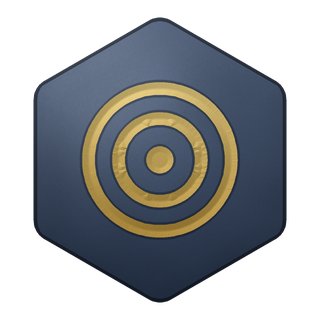
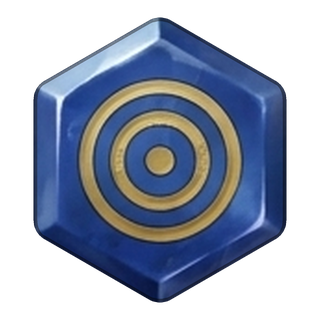
The relic stones painted: one Gemini sheet from the renders, fitted into the hexagon
tools/relic_paint.py puts the sixteen rendered stones on black as one
reference, has Gemini repaint the sheet as one image, keys each stone
off the ground, scales it to cover the renderer's hexagon and clips it
to it, and ships relic_<set>.png under the same names; Ichor and
Titanfall were re-rolled alone from their own renders. Three images.
The rim template still fits and no Swift changed. relic_art.py --ship
leaves the paintings in place unless --ship-stones.

Claude-Session: https://claude.ai/code/session_01UWm8wBqgkvhU3PN6wHTkXq

diff --git a/tools/relic_paint.py b/tools/relic_paint.py
@@ -1,0 +1,212 @@
+#!/usr/bin/env python3
+"""Paint the sixteen relic stones with Gemini, from the rendered stones as
+the reference, and fit the paintings into the app's own hexagon.
+
+    python3 tools/relic_paint.py --reference out/ref.png          # the 4×4 sheet of rendered stones on black
+    python3 tools/relic_paint.py --paint out/ref.png out/paint.png # ONE Gemini image (about 14 cents)
+    python3 tools/relic_paint.py --split out/paint.png --sheet out/judge.jpg   # key, cut, fit, judge
+    python3 tools/relic_paint.py --split out/paint.png --ship                  # write relic_<set>.png
+    python3 tools/relic_paint.py --single fury --reference out/fury_ref.png    # one stone's reference, for a re-roll
+    python3 tools/relic_paint.py --single fury --split out/fury_paint.png --ship
+
+Why a sheet and not sixteen singles: one painting of sixteen stones is one
+style by construction, and one image is a seventh of the price of sixteen;
+a cell that came out wrong is re-rolled alone from its own render. Why the
+rendered stones as the reference: the seals are ours (the aspis, the Doric
+column, the torch) and a reference holds the painter to them, where a
+description would not. Why black: the stones are keyed off the ground by
+darkness, flood-filled from the border so a dark carve inside a stone
+survives; the sprites learned the same on 2026-09-10.
+
+The painting supplies the surface — the mineral, the gloss, the carved
+gold — and the code supplies the cut: every painted stone is scaled to
+cover the renderer's hexagon (`relic_art.stone_path`) and clipped to it,
+so the rim template the app tints still fits and no Swift changes. The
+emblems stay the line seals; they are chips at twelve points.
+
+Gemini's key is `GEMINI_API_KEY` in the environment; this tool never
+prints or writes it. It calls the painter only under `--paint`, once per
+call, and only when the owner has said so for this batch (2026-09-14: "Do
+the painted relics. I want those to look better.").
+"""
+import argparse
+import subprocess
+import sys
+from pathlib import Path
+
+import numpy as np
+from PIL import Image
+from scipy import ndimage
+
+sys.path.insert(0, str(Path(__file__).resolve().parent))
+import relic_art  # noqa: E402
+
+ROOT = Path(__file__).resolve().parent.parent
+OUT = ROOT / "Pantheon" / "Resources" / "Portraits"
+
+GRID = 4
+CANVAS = 2048
+CELL = 480
+MARGIN = (CANVAS - GRID * CELL) // 2    # 64
+STONE = 360                             # the rendered stone's size in a cell
+SINGLE_CANVAS = 1024
+
+PROMPT = (
+    "Repaint this reference sheet as premium hand-painted fantasy game icons: "
+    "{count} relic stones, each a polished faceted gemstone slab cut as the SAME "
+    "pointy-top hexagon with a bevelled edge that catches a soft light from the "
+    "upper left, rich saturated mineral colour with subtle veining and a glossy "
+    "highlight, and its symbol ENGRAVED into the face as fine chiselled gold "
+    "linework with an inner shadow. Keep every stone in exactly the same position, "
+    "size, orientation, colour family and symbol as in the reference, {layout}, on "
+    "a pure black background. Painterly AAA mobile RPG icon style, crisp and "
+    "readable at small size. No glow, no drop shadow, no reflection on the ground, "
+    "nothing between or around the stones"
+)
+
+
+def names(single):
+    return [single] if single else [s[0] for s in relic_art.SETS]
+
+
+def render(name):
+    entry = next(s for s in relic_art.SETS if s[0] == name)
+    return relic_art.render_stone(*entry)
+
+
+def cells(single):
+    """(name, x, y, size) per cell on the canvas."""
+    if single:
+        size = int(SINGLE_CANVAS * 0.72)
+        return [(single, (SINGLE_CANVAS - size) // 2, (SINGLE_CANVAS - size) // 2, size)]
+    out = []
+    for index, name in enumerate(names(None)):
+        row, col = divmod(index, GRID)
+        x = MARGIN + col * CELL + (CELL - STONE) // 2
+        y = MARGIN + row * CELL + (CELL - STONE) // 2
+        out.append((name, x, y, STONE))
+    return out
+
+
+def reference(path, single=None):
+    canvas = SINGLE_CANVAS if single else CANVAS
+    img = Image.new("RGB", (canvas, canvas), (0, 0, 0))
+    for name, x, y, size in cells(single):
+        stone = render(name).resize((size, size), Image.LANCZOS)
+        img.paste(stone, (x, y), stone)
+    img.save(path)
+    print("wrote", path)
+
+
+def paint(reference_path, out_path, single=None):
+    count = "one" if single else "sixteen"
+    layout = "centred" if single else "four rows of four, evenly spaced"
+    canvas = SINGLE_CANVAS if single else CANVAS
+    cmd = [sys.executable, str(ROOT / "tools" / "genart.py"),
+           "--prompt", PROMPT.format(count=count, layout=layout),
+           "--ref", str(reference_path), "--out", str(out_path),
+           "--size", f"{canvas}x{canvas}", "--raw", str(Path(out_path).with_suffix(".raw.png"))]
+    subprocess.run(cmd, check=True)
+
+
+def key(cell_rgb):
+    """The stone in a cell: everything not black, flood-filled from the
+    border so a dark carve inside the stone is kept. A bool mask."""
+    a = cell_rgb.astype(np.float32)
+    dark = a.max(-1) < 30
+    lab, _ = ndimage.label(dark)
+    border = set(np.unique(np.concatenate([lab[0], lab[-1], lab[:, 0], lab[:, -1]])))
+    border.discard(0)
+    ground = np.isin(lab, list(border))
+    stone = ~ground
+    # The largest piece, so a stray speck of paint is not the stone.
+    lab, n = ndimage.label(stone)
+    if n == 0:
+        return stone
+    sizes = ndimage.sum(stone, lab, range(1, n + 1))
+    return lab == (1 + int(np.argmax(sizes)))
+
+
+def fit(cell_rgb, mask):
+    """Scale the painted stone to cover the renderer's hexagon and clip it
+    to that hexagon, returning a SIZE×SIZE RGBA image."""
+    S4 = relic_art.S4
+    M = relic_art.mask_of(relic_art.stone_path())
+    mys, mxs = np.nonzero(M)
+    tw, th = mxs.max() - mxs.min() + 1, mys.max() - mys.min() + 1
+    tcx, tcy = (mxs.min() + mxs.max()) / 2, (mys.min() + mys.max()) / 2
+    ys, xs = np.nonzero(mask)
+    pw, ph = xs.max() - xs.min() + 1, ys.max() - ys.min() + 1
+    scale = 1.03 * max(tw / pw, th / ph)
+    # Colour where the painted alpha is zero would bleed black into the
+    # clip; fill every outside pixel with its nearest stone pixel first.
+    idx = ndimage.distance_transform_edt(~mask, return_distances=False, return_indices=True)
+    filled = cell_rgb[idx[0], idx[1]]
+    rgba = np.zeros(cell_rgb.shape[:2] + (4,), np.uint8)
+    rgba[..., :3] = filled
+    rgba[..., 3] = mask.astype(np.uint8) * 255
+    img = Image.fromarray(rgba, "RGBA")
+    new_w, new_h = int(round(img.width * scale)), int(round(img.height * scale))
+    img = img.resize((new_w, new_h), Image.LANCZOS)
+    # Centre the painted stone's box on the hexagon's box.
+    pcx, pcy = (xs.min() + xs.max()) / 2 * scale, (ys.min() + ys.max()) / 2 * scale
+    canvas = Image.new("RGBA", (S4, S4), (0, 0, 0, 0))
+    canvas.paste(img, (int(round(tcx - pcx)), int(round(tcy - pcy))), img)
+    arr = np.array(canvas).astype(np.float32)
+    # The cut: the renderer's hexagon, with its darker line along the edge
+    # so the silhouette holds on cream under a Normal rim.
+    edge = M & ~ndimage.binary_erosion(M, iterations=int(0.012 * S4))
+    col = arr[..., :3] / 255.0
+    col = np.where(edge[..., None], col * 0.6, col)
+    out = np.zeros((S4, S4, 4), np.float32)
+    out[..., :3] = col
+    out[..., 3] = M.astype(np.float32)
+    return Image.fromarray((out * 255).astype(np.uint8), "RGBA").resize((relic_art.SIZE, relic_art.SIZE), Image.LANCZOS)
+
+
+def split(painted_path, single=None):
+    """The painted sheet cut into stones, keyed and fitted: {name: image}."""
+    img = np.array(Image.open(painted_path).convert("RGB"))
+    stones = {}
+    for name, x, y, size in cells(single):
+        pad = size // 6 if not single else 0
+        x0, y0 = max(0, x - pad), max(0, y - pad)
+        x1, y1 = min(img.shape[1], x + size + pad), min(img.shape[0], y + size + pad)
+        cell = img[y0:y1, x0:x1]
+        mask = key(cell)
+        coverage = mask.mean()
+        if coverage < 0.15 or coverage > 0.95:
+            print(f"  {name}: suspicious coverage {coverage:.2f}")
+        stones[name] = fit(cell, mask)
+        print(f"  cut {name}  ({coverage:.0%} of its cell)")
+    return stones
+
+
+def main():
+    ap = argparse.ArgumentParser()
+    ap.add_argument("--single", help="one set name: a 1×1 reference / painting instead of the sheet")
+    ap.add_argument("--reference", metavar="PNG", help="write the reference sheet here")
+    ap.add_argument("--paint", nargs=2, metavar=("REF", "OUT"), help="call Gemini once with REF, write OUT")
+    ap.add_argument("--split", metavar="PAINTED", help="key, cut and fit a painted sheet")
+    ap.add_argument("--sheet", metavar="JPG", help="with --split: the judging sheet at the app's sizes")
+    ap.add_argument("--ship", action="store_true", help="with --split: write relic_<set>.png into the bundle")
+    args = ap.parse_args()
+
+    if args.reference:
+        reference(args.reference, args.single)
+    if args.paint:
+        paint(args.paint[0], args.paint[1], args.single)
+    if args.split:
+        stones = split(args.split, args.single)
+        if args.sheet:
+            rim = relic_art.render_rim()
+            print("wrote", relic_art.sheet(args.sheet, stones, rim))
+        if args.ship:
+            OUT.mkdir(parents=True, exist_ok=True)
+            for name, img in stones.items():
+                img.save(OUT / f"relic_{name}.png", optimize=True)
+            print(f"shipped {len(stones)} painted stones")
+
+
+if __name__ == "__main__":
+    main()

diff --git a/tools/relic_art.py b/tools/relic_art.py
@@ -20,11 +20,13 @@ round, so its top-left edge is in shadow — in gold, or in dark bronze on a
 light stone.
 
     python3 tools/relic_art.py --sheet /tmp/relics/sheet.jpg    # judge first
-    python3 tools/relic_art.py --ship                            # write the bundle files
+    python3 tools/relic_art.py --ship                            # the rim and the emblems
+    python3 tools/relic_art.py --ship --ship-stones              # the rendered stones too
 
-Gemini is paused (CLAUDE.md), so these are drawn here rather than painted;
-a painted set dropped in under the same names replaces them with no code
-change.
+The stones in the bundle are PAINTED (2026-09-14, `tools/relic_paint.py`:
+Gemini from these renders as the reference, fitted into this hexagon); the
+renders here are the reference and the fallback, and `--ship` alone leaves
+the paintings in place.
 """
 import argparse
 import math
@@ -581,6 +583,10 @@ def main():
     ap.add_argument("--ship", action="store_true", help="write the bundle files")
     ap.add_argument("--only", help="set names, comma-separated, for a quick look")
     ap.add_argument("--emblems", help="write a sheet of the sixteen emblems alone")
+    ap.add_argument("--ship-stones", action="store_true",
+                    help="with --ship: overwrite the stones too. They are PAINTED since 2026-09-14 "
+                         "(tools/relic_paint.py); the renders are the fallback, so --ship alone "
+                         "writes the rim and the emblems only")
     args = ap.parse_args()
 
     sets = [s for s in SETS if not args.only or s[0] in args.only.split(",")]
@@ -609,8 +615,11 @@ def main():
             f.unlink()
         if stale:
             print(f"removed {len(stale)} per-slot files")
-        for name, img in stones.items():
-            img.save(OUT / f"relic_{name}.png", optimize=True)
+        if args.ship_stones:
+            for name, img in stones.items():
+                img.save(OUT / f"relic_{name}.png", optimize=True)
+        else:
+            print("stones left as painted (tools/relic_paint.py); --ship-stones overwrites them with the renders")
         rim.save(OUT / "relic_rim.png", optimize=True)
         for name, colour, emblem in SETS:
             render_emblem(emblem).save(OUT / f"relic_emblem_{name}.png", optimize=True)

diff --git a/Docs/PLAN.md b/Docs/PLAN.md
@@ -1888,3 +1888,59 @@ the sets are shown on the map and chosen by myth rather than hidden and
 arbitrary; the three-star track is Raid's shape and the road chests are
 AFK's, and together with the names, the seals and the chest they map one
 to one onto none of them.
+
+## The stones painted (2026-09-14)
+
+The owner: "Do the painted relics. I want those to look better." His word
+for this batch; the cap stays ten dollars a month and the quote was
+$2.30 to $5.
+
+### What the genre's icons are
+
+Summoners War's runes are painted gems: a saturated mineral with a gloss,
+the set's symbol on the face, read at forty points in a grid of hundreds.
+Epic Seven's gear is painted per piece with the set's icon over it; Raid's
+artifacts likewise. None of them is a line drawing; all of them are one
+painter's hand across the whole set, which is what makes a grid of them
+read as a system rather than a pile.
+
+### Three ways to paint sixteen stones
+
+1. **Sixteen singles, each from its own rendered stone as the reference.**
+   About $2.30. The seal is held to ours by the reference. The risk is
+   sixteen slightly different hands.
+2. **One sheet: the sixteen rendered stones on black as ONE reference,
+   repainted as one image.** About 14 cents an attempt. One hand by
+   construction; the painter keeps the positions, colours and seals of the
+   reference. The risk is a cell that mutates, which is fixed by option 1
+   for that cell alone.
+3. **Meshy's text-to-image.** The same models for credits, at a price per
+   image nobody has read yet, against a floor of 2,000 with 133 to spare.
+   Not for a batch.
+
+Chosen: the sheet, singles for the outliers. Black ground, keyed by
+darkness and flood-filled from the border (a dark carve inside a stone
+survives; the sprites of 2026-09-10 learned the same). The painting
+supplies the surface and the code the cut: `tools/relic_paint.py` scales
+each painted stone to cover the renderer's hexagon and clips it to that
+hexagon, adds the renderer's edge line, and ships it under the same
+`relic_<set>.png` name, so the tinted rim still fits and nothing in Swift
+changes; the emblems stay the line seals, which are chips at twelve
+points. Judged on the same sheet as the rendered stones, at the app's
+four sizes, before shipping.
+
+### What shipped (2026-09-14)
+
+Three images, 42 cents. The sheet came back as one hand: sixteen faceted
+gems, every position, colour family and seal where the reference put
+them, on black. Two drifted — Ichor to lavender and Titanfall to obsidian
+— and were re-rolled alone from their own renders (a copper chalice
+stone and a brown mountain stone came back). Each stone was keyed off
+the ground, scaled to cover the renderer's hexagon (3% over, so no
+edge shows), clipped to it, given the renderer's edge line, and judged
+on the same sheet as the renders at the app's four sizes before shipping.
+`relic_art.py --ship` now leaves the paintings alone unless told
+`--ship-stones`. `RelicSet.stoneHex`, the disc behind an emblem chip,
+was left as it was: the chips are read beside the stones, not matched to
+them, and a median measured off a faceted painting is the colour of its
+shadows. The bundle grew 0.6 MB.

diff --git a/CLAUDE.md b/CLAUDE.md
@@ -507,13 +507,21 @@ environment can and cannot do. The short version:
   wind, a flame (the first cut's filled symbols were "clip art", the
   owner's word) — the QUALITY the rim, the grade the stars under it, the
   level a badge — `RelicIcon` in `RelicInventoryView.swift`, on every
-  screen a relic appears. The stones are rendered here by `python3
-  tools/relic_art.py --sheet x.jpg` (judge, `--only fury,aegis` for a
-  quick look) and `--ship` (writes `relic_<set>_<slot>.png` ×96,
-  `relic_rim_<slot>.png` ×6 as templates the app tints,
-  `relic_emblem_<set>.png` ×16, about 5 MB) — Gemini is paused, and a
-  painted set dropped in under the same names replaces them with no
-  code change (about 22 images, ~$3, for the emblems and shapes). **The
+  screen a relic appears. **The stones are PAINTED (2026-09-14):** the owner, "Do the painted
+  relics. I want those to look better." `tools/relic_paint.py` put the
+  sixteen rendered stones on black as ONE reference sheet and had Gemini
+  repaint it as one image (14 cents; one hand across all sixteen, every
+  position, colour and seal kept), re-rolled Ichor and Titanfall alone
+  from their own renders (the sheet had made them lavender and obsidian;
+  14 cents each), keyed each stone off the black ground (flood-filled from
+  the border), scaled it to cover the renderer's hexagon and clipped it to
+  it, and shipped `relic_<set>.png` ×16 (1.6 MB) under the same names —
+  so the tinted `relic_rim.png` still fits and nothing in Swift changed;
+  the emblems stay the line seals. Three images, 42 cents. The renders
+  (`python3 tools/relic_art.py --sheet x.jpg`, `--only fury,aegis`) are the
+  reference and the fallback: `--ship` writes the rim and the emblems
+  only, and `--ship --ship-stones` would put the renders back over the
+  paintings. **The
   inventory is the genre's grid** (2026-09-12, evening): the stones at
   38 pt, eight a row, ONE panel at the right for the relic tapped (name,
   quality, main, subs, set, fit, wearer; Open, Equip on…/Change, Lock,
